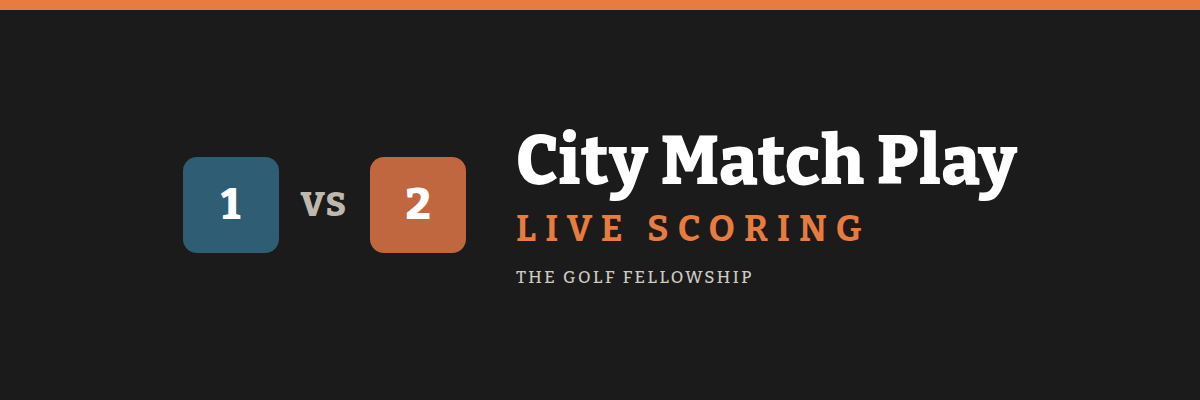
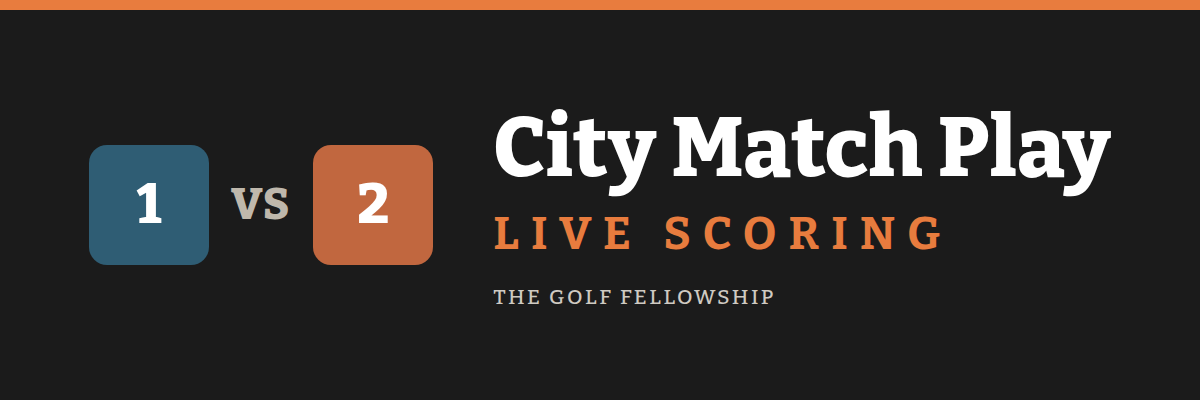
style: fill the 1200x400 preview cards — full-size art, tighter side margins (v2.255.4)
Claude-Session: https://claude.ai/code/session_012FvSk9DKuqXMEcTJxKdnKy

Changed region(s): [[0.0617, 0.27, 0.925, 0.66], [0.4008, 0.66, 0.6475, 0.78]]

diff --git a/transaction-tracker/templates/contests.html b/transaction-tracker/templates/contests.html
@@ -23,17 +23,17 @@
     {% if lsc_landing %}
     {% set og_title = "The Lone Star Cup Qualifiers" %}
     {% set og_desc = "Austin vs San Antonio — projected rosters live from today's standings, plus points races and Match Play." %}
-    {% set og_image = "/static/og-lone-star-cup.png?v=400" %}
+    {% set og_image = "/static/og-lone-star-cup.png?v=401" %}
     {% elif mp_landing %}
     {% set og_title = "City Match Play — " ~ mp_landing %}
     {% set og_desc = "Follow the matches live — hole-by-hole scorecards, running margins, and the bracket." %}
-    {% set og_image = "/static/og-match-play.png?v=400" %}
+    {% set og_image = "/static/og-match-play.png?v=401" %}
     {% else %}
     {% set og_title = "TGF Leaderboard" %}
     {% set og_desc = "Points races, Match Play, and the Lone Star Cup — live standings for San Antonio & Austin." %}
     {# Wide banner, not the bare app icon — iMessage renders a square
        512px og:image as a huge card (Kerry 2026-08-21: "Way too big"). #}
-    {% set og_image = "/static/og-leaderboard.png?v=400" %}
+    {% set og_image = "/static/og-leaderboard.png?v=401" %}
     {% endif %}
     {% include "_og_meta.html" %}
     <link rel="stylesheet" href="/static/css/dashboard.css?v={{ app_version }}">

diff --git a/transaction-tracker/static/js/version.js b/transaction-tracker/static/js/version.js
@@ -1,5 +1,12 @@
-window.TGF_VERSION = "2.255.3";
+window.TGF_VERSION = "2.255.4";
 window.TGF_CHANGELOG = [
+  {
+    version: "2.255.4",
+    date: "2026-08-21",
+    changes: [
+      "Link-preview cards regenerated with the full-size art on the 1200×400 strip (Kerry: 'reduce the padding ... specifically left and right') — the v2.255.3 slim-down had scaled the icons and type DOWN along with the canvas, leaving big empty side margins; the content is now back at its original size so it fills the strip. Cache-buster bumped to ?v=401 so scrapers refetch.",
+    ],
+  },
   {
     version: "2.255.3",
     date: "2026-08-21",
